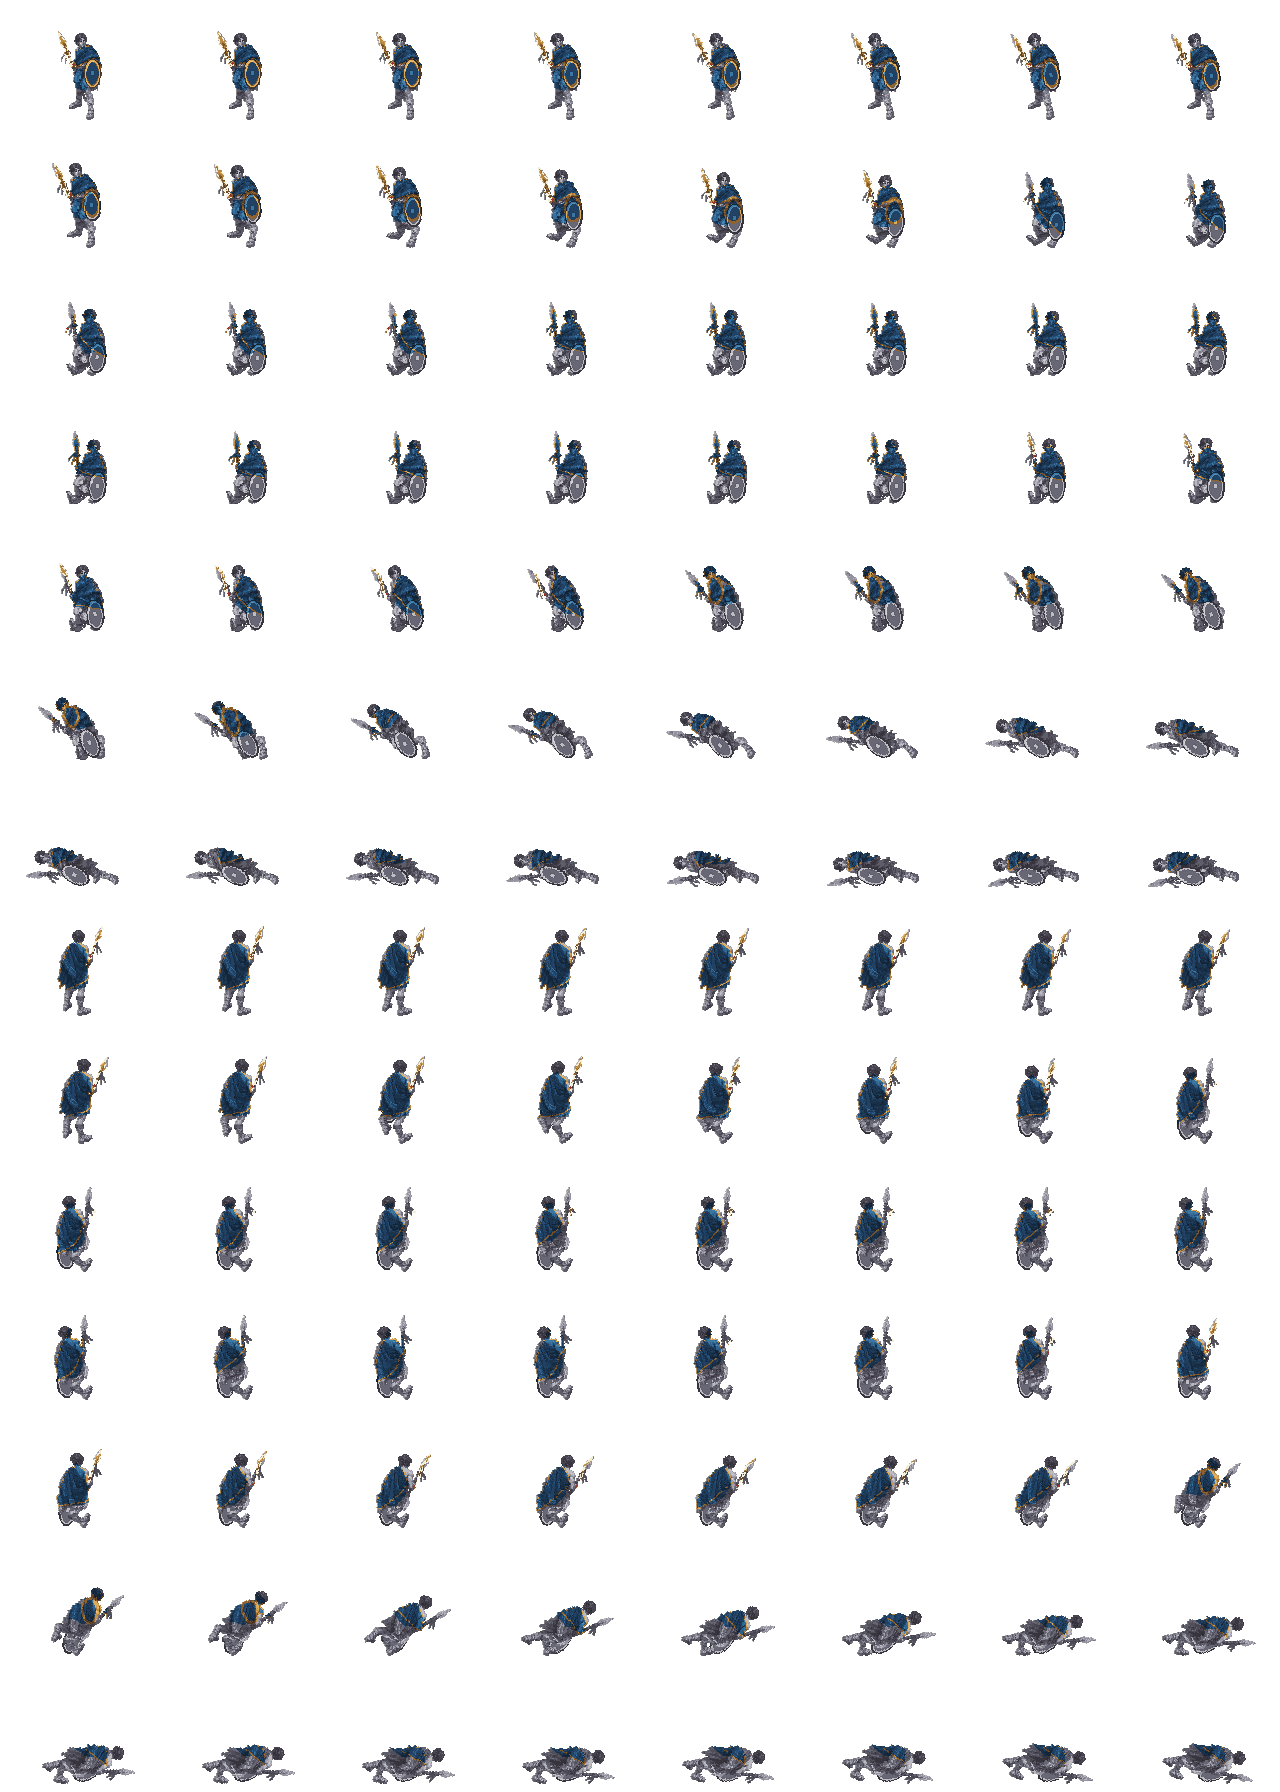
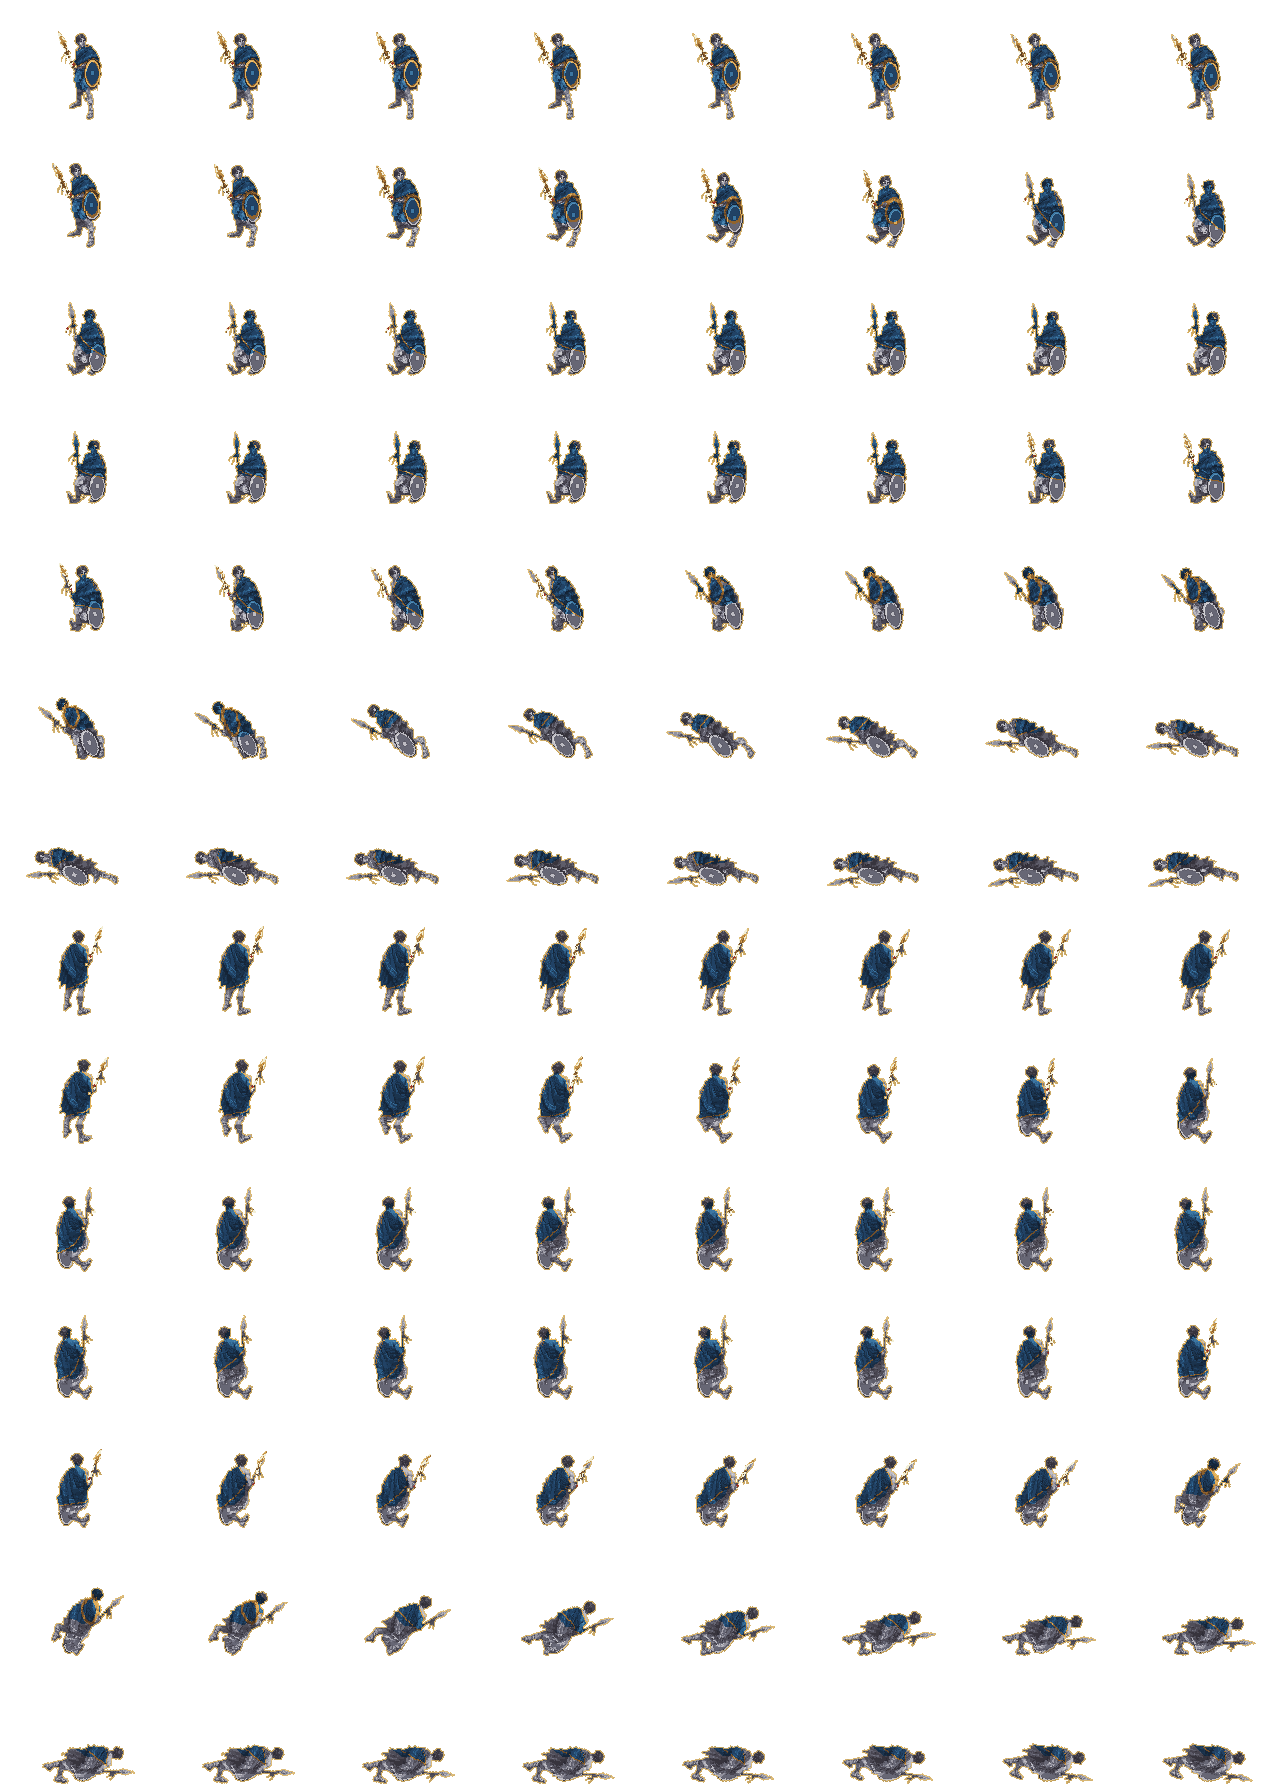
僭神阶段的战场小人加金色描边

diff --git a/art/tools/bake_divinity.py b/art/tools/bake_divinity.py
@@ -90,6 +90,10 @@ def paint(pic, mask, tier, scale=1):
             thread=metal & ~erode(metal,2*scale+1) & (((x+2*y)//(4*scale))%3!=0)
             rgb[thread]=[243,239,214]
             rgb[(mask==4)&inside]=[156,51,38]
+            # Marble alone reads as a statue at battle size: close the whole figure in a
+            # line of gold, as the gilding on a cult image, leaving the wrist cord warm and the spear its lightning.
+            gilt=edge & (mask!=4) & ~metal
+            rgb[gilt]=rgb[gilt]*.25+np.array([240,196,104])*.75
     rgb[(mask==5)&inside]=[143,206,235] if tier<3 else [252,247,221]
     data[:,:,:3]=np.clip(rgb,0,255).astype(np.uint8)
     return Image.fromarray(data)

diff --git a/28-art-backlog.md b/28-art-backlog.md
@@ -546,6 +546,8 @@ ImageGen 参考图依次为 `portraits/hero.png`、`figures.png`、`pholoe-centa
 
 返工：「受火」上一版只有一条细蓝边，战场上看不出来，所以蓝边加宽、矛尖带蓝光。淡蓝的眼睛只留在半身像里（半身像已通过，不用重出），战场原画不要动脸。
 
+「僭神」的战场小人已加一圈金色描边（2026-11-25），免得大理石肤色在战场上像石像。描边由 `art/tools/bake_divinity.py` 生成，矛上的闪电和手腕红绳不描。
+
 ---
 
 ## 3. 第三档：后续章节
